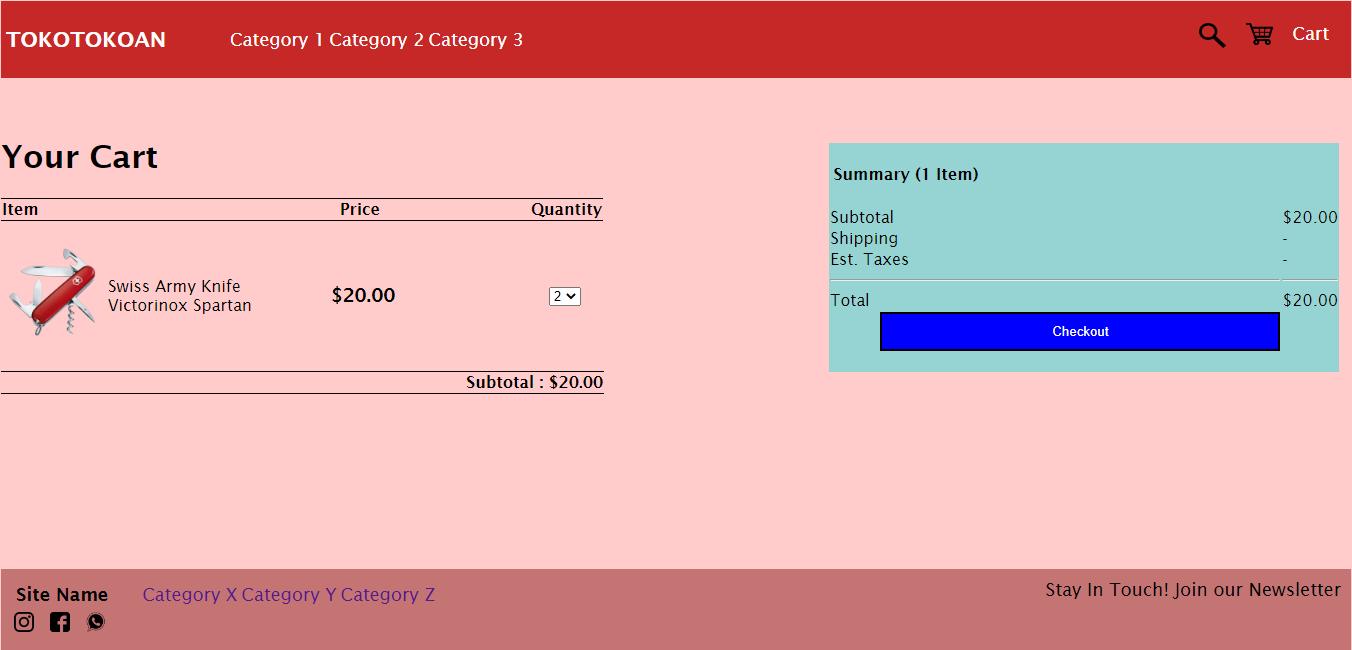
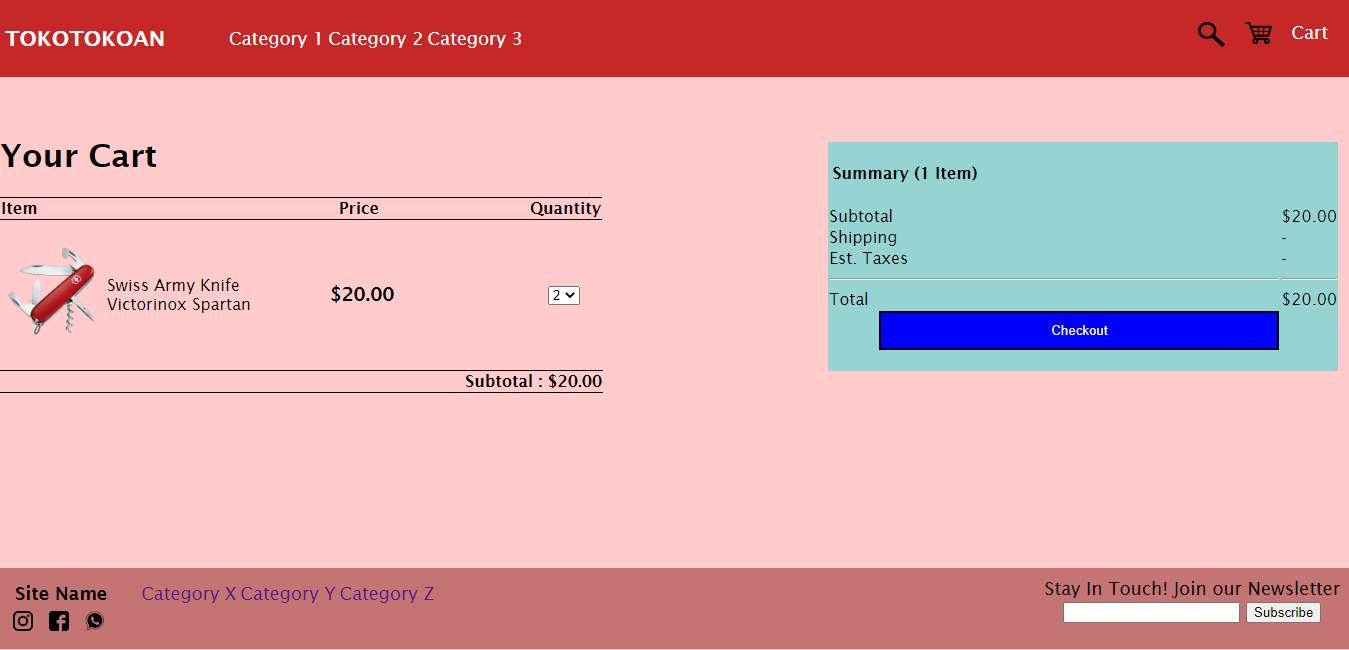
third commit

diff --git a/praktikum01/cart_0110222140_hilmiawan.html b/praktikum01/cart_0110222140_hilmiawan.html
@@ -109,8 +109,13 @@
                     <td><a href="" style="text-decoration:none; margin-left: 30px;">Category X</a></td>
                     <td><a href="" style="text-decoration:none;">Category Y</a></td>
                     <td><a href="" style="text-decoration:none;">Category Z</a></td>
-                    <div>
-                        <p style="float: right; margin-left: 20px; margin-top: 0px;">Stay In Touch! Join our Newsletter</p>    
+                    <div align="center">
+                        <form action="" style="float: right;"></form>
+                            <label style="float: right; margin-left: 20px; margin-top: 0px;">Stay In Touch! Join our Newsletter
+                            <br>
+                            <input type="email">
+                            <button type="submit">Subscribe</button>
+                        </form>    
                     </div>
                 </tr>
             </thead>

diff --git a/praktikum01/checkout_0110222140_hilmiawan.html b/praktikum01/checkout_0110222140_hilmiawan.html
@@ -159,8 +159,13 @@
                     <td><a href="" style="text-decoration:none; margin-left: 30px;">Category X</a></td>
                     <td><a href="" style="text-decoration:none;">Category Y</a></td>
                     <td><a href="" style="text-decoration:none;">Category Z</a></td>
-                    <div>
-                        <p style="float: right; margin-left: 20px; margin-top: 0px;">Stay In Touch! Join our Newsletter</p>    
+                    <div align="center">
+                        <form action="" style="float: right;"></form>
+                            <label style="float: right; margin-left: 20px; margin-top: 0px;">Stay In Touch! Join our Newsletter
+                            <br>
+                            <input type="email">
+                            <button type="submit">Subscribe</button>
+                        </form>    
                     </div>
                 </tr>
             </thead>
